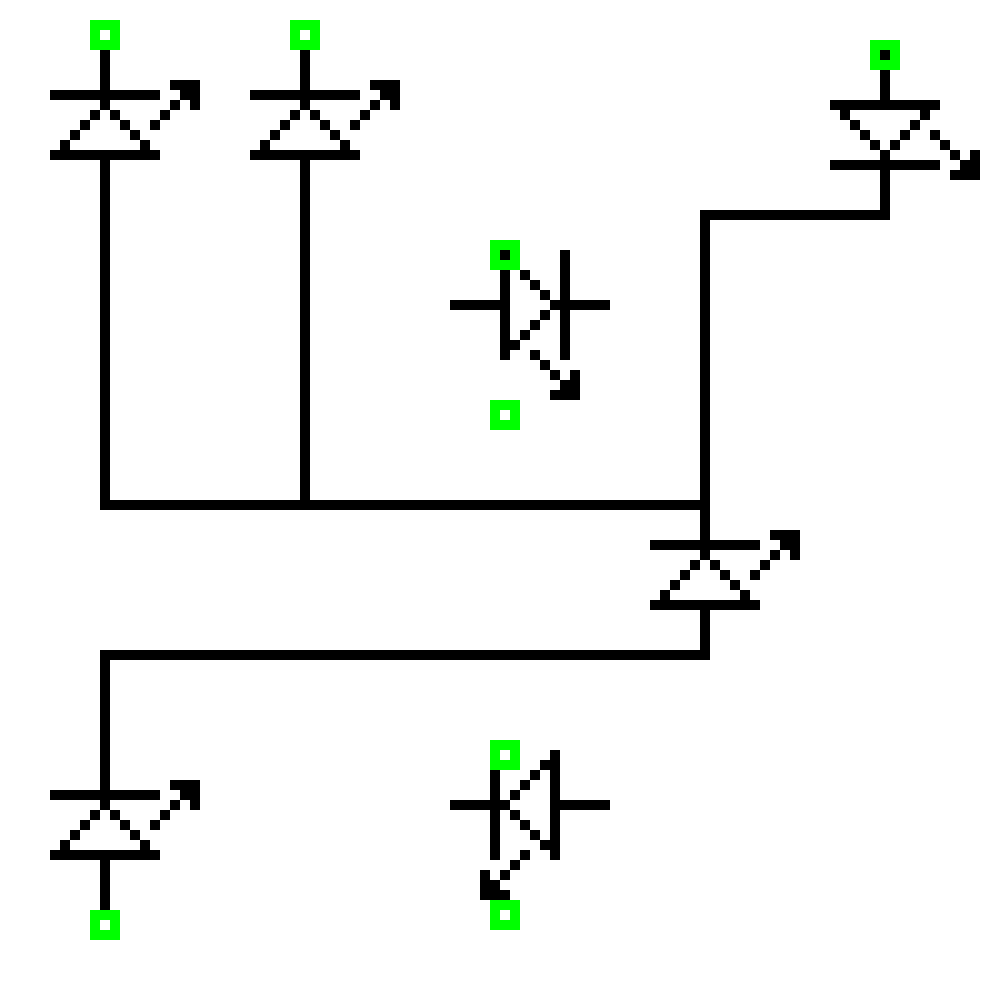
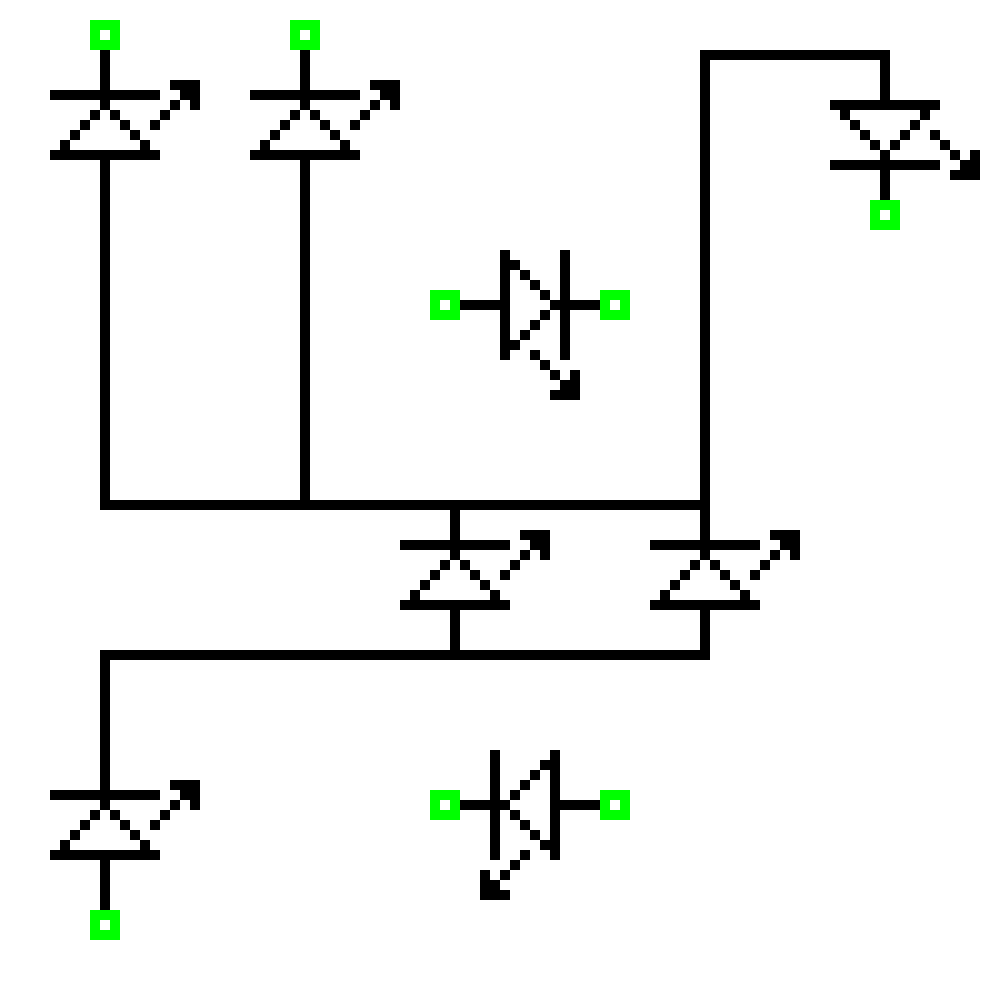
tests(led): add tests to led file

diff --git a/pkg/components/led.go b/pkg/components/led.go
@@ -8,8 +8,6 @@ import (
 )
 
 const (
-	pixelEmpt   = 0
-	pixelFill   = 1
 	ledFileName = "images/led.png"
 
 	// North Direction which the LED can point
@@ -21,25 +19,6 @@ const (
 	// West Direction which the LED can point
 	West = "W"
 )
-
-var ledPixels = [][]int{
-	{pixelEmpt, pixelEmpt, pixelEmpt, pixelEmpt, pixelEmpt, pixelFill, pixelEmpt, pixelEmpt, pixelEmpt, pixelEmpt, pixelEmpt, pixelEmpt, pixelEmpt, pixelEmpt, pixelEmpt},
-	{pixelEmpt, pixelEmpt, pixelEmpt, pixelEmpt, pixelEmpt, pixelFill, pixelEmpt, pixelEmpt, pixelEmpt, pixelEmpt, pixelEmpt, pixelEmpt, pixelEmpt, pixelEmpt, pixelEmpt},
-	{pixelEmpt, pixelEmpt, pixelEmpt, pixelEmpt, pixelEmpt, pixelFill, pixelEmpt, pixelEmpt, pixelEmpt, pixelEmpt, pixelEmpt, pixelEmpt, pixelEmpt, pixelEmpt, pixelEmpt},
-	{pixelEmpt, pixelEmpt, pixelEmpt, pixelEmpt, pixelEmpt, pixelFill, pixelEmpt, pixelEmpt, pixelEmpt, pixelEmpt, pixelEmpt, pixelEmpt, pixelFill, pixelFill, pixelFill},
-	{pixelFill, pixelFill, pixelFill, pixelFill, pixelFill, pixelFill, pixelFill, pixelFill, pixelFill, pixelFill, pixelFill, pixelEmpt, pixelEmpt, pixelFill, pixelFill},
-	{pixelEmpt, pixelEmpt, pixelEmpt, pixelEmpt, pixelEmpt, pixelFill, pixelEmpt, pixelEmpt, pixelEmpt, pixelEmpt, pixelEmpt, pixelEmpt, pixelFill, pixelEmpt, pixelFill},
-	{pixelEmpt, pixelEmpt, pixelEmpt, pixelEmpt, pixelFill, pixelEmpt, pixelFill, pixelEmpt, pixelEmpt, pixelEmpt, pixelEmpt, pixelFill, pixelEmpt, pixelEmpt, pixelEmpt},
-	{pixelEmpt, pixelEmpt, pixelEmpt, pixelFill, pixelEmpt, pixelEmpt, pixelEmpt, pixelFill, pixelEmpt, pixelEmpt, pixelFill, pixelEmpt, pixelEmpt, pixelEmpt, pixelEmpt},
-	{pixelEmpt, pixelEmpt, pixelFill, pixelEmpt, pixelEmpt, pixelEmpt, pixelEmpt, pixelEmpt, pixelFill, pixelEmpt, pixelEmpt, pixelEmpt, pixelEmpt, pixelEmpt, pixelEmpt},
-	{pixelEmpt, pixelFill, pixelEmpt, pixelEmpt, pixelEmpt, pixelEmpt, pixelEmpt, pixelEmpt, pixelEmpt, pixelFill, pixelEmpt, pixelEmpt, pixelEmpt, pixelEmpt, pixelEmpt},
-	{pixelFill, pixelFill, pixelFill, pixelFill, pixelFill, pixelFill, pixelFill, pixelFill, pixelFill, pixelFill, pixelFill, pixelEmpt, pixelEmpt, pixelEmpt, pixelEmpt},
-	{pixelEmpt, pixelEmpt, pixelEmpt, pixelEmpt, pixelEmpt, pixelFill, pixelEmpt, pixelEmpt, pixelEmpt, pixelEmpt, pixelEmpt, pixelEmpt, pixelEmpt, pixelEmpt, pixelEmpt},
-	{pixelEmpt, pixelEmpt, pixelEmpt, pixelEmpt, pixelEmpt, pixelFill, pixelEmpt, pixelEmpt, pixelEmpt, pixelEmpt, pixelEmpt, pixelEmpt, pixelEmpt, pixelEmpt, pixelEmpt},
-	{pixelEmpt, pixelEmpt, pixelEmpt, pixelEmpt, pixelEmpt, pixelFill, pixelEmpt, pixelEmpt, pixelEmpt, pixelEmpt, pixelEmpt, pixelEmpt, pixelEmpt, pixelEmpt, pixelEmpt},
-	{pixelEmpt, pixelEmpt, pixelEmpt, pixelEmpt, pixelEmpt, pixelFill, pixelEmpt, pixelEmpt, pixelEmpt, pixelEmpt, pixelEmpt, pixelEmpt, pixelEmpt, pixelEmpt, pixelEmpt},
-	{pixelEmpt, pixelEmpt, pixelEmpt, pixelEmpt, pixelEmpt, pixelFill, pixelEmpt, pixelEmpt, pixelEmpt, pixelEmpt, pixelEmpt, pixelEmpt, pixelEmpt, pixelEmpt, pixelEmpt},
-}
 
 var directions = map[string]bool{
 	North: true,
@@ -56,6 +35,18 @@ type LEDConfig struct {
 	Direction  string
 }
 
+func reverse1DSlice(arr []int) {
+	for i, j := 0, len(arr)-1; i < j; i, j = i+1, j-1 {
+		arr[i], arr[j] = arr[j], arr[i]
+	}
+}
+
+func reverse2DSlice(arr [][]int) {
+	for i, j := 0, len(arr)-1; i < j; i, j = i+1, j-1 {
+		arr[i], arr[j] = arr[j], arr[i]
+	}
+}
+
 func transformPixels(pixels [][]int, direction string) [][]int {
 	newPixels := make([][]int, len(pixels))
 	copy(newPixels, pixels)
@@ -63,9 +54,7 @@ func transformPixels(pixels [][]int, direction string) [][]int {
 		return pixels
 	}
 	if direction == South {
-		for i, j := 0, len(newPixels)-1; i < j; i, j = i+1, j-1 {
-			newPixels[i], newPixels[j] = newPixels[j], newPixels[i]
-		}
+		reverse2DSlice(newPixels)
 		return newPixels
 	}
 
@@ -80,14 +69,11 @@ func transformPixels(pixels [][]int, direction string) [][]int {
 	}
 	if direction == West {
 		return newPixels
-	} else {
-		for _, row := range newPixels {
-			for i, j := 0, len(row)-1; i < j; i, j = i+1, j-1 {
-				row[i], row[j] = row[j], row[i]
-			}
-		}
-		return newPixels
 	}
+	for _, row := range newPixels {
+		reverse1DSlice(row)
+	}
+	return newPixels
 }
 
 // NewLED returns a LED config starting from specified x,y
@@ -123,12 +109,30 @@ func (l *LEDConfig) GetCoordinates() ([][]int, error) {
 
 // GetCathode gets the LED's cathode coord
 func (l *LEDConfig) GetCathode() common.Coordinate {
-	return common.NewCord(l.startCoord.GetX()+5, l.startCoord.GetY())
+	if l.Direction == North {
+		return common.NewCord(l.startCoord.GetX()+5, l.startCoord.GetY())
+	}
+	if l.Direction == East {
+		return common.NewCord(l.startCoord.GetX()-1, l.startCoord.GetY()+5)
+	}
+	if l.Direction == South {
+		return common.NewCord(l.startCoord.GetX()+5, l.startCoord.GetY()+len(ledPixels))
+	}
+	return common.NewCord(l.startCoord.GetX()+len(ledPixels), l.startCoord.GetY()+5)
 }
 
 // GetAnode gets the LED's anode coord
 func (l *LEDConfig) GetAnode() common.Coordinate {
-	return common.NewCord(l.startCoord.GetX()+5, l.startCoord.GetY()+len(ledPixels))
+	if l.Direction == North {
+		return common.NewCord(l.startCoord.GetX()+5, l.startCoord.GetY()+len(ledPixels))
+	}
+	if l.Direction == East {
+		return common.NewCord(l.startCoord.GetX()+len(ledPixels), l.startCoord.GetY()+5)
+	}
+	if l.Direction == South {
+		return common.NewCord(l.startCoord.GetX()+5, l.startCoord.GetY())
+	}
+	return common.NewCord(l.startCoord.GetX()-1, l.startCoord.GetY()+5)
 }
 
 func validatePixelArray(pixelArray [][]int) error {

diff --git a/pkg/components/pixel_art.go b/pkg/components/pixel_art.go
@@ -1,0 +1,25 @@
+package components
+
+const (
+	pixelEmpt = 0
+	pixelFill = 1
+)
+
+var ledPixels = [][]int{
+	{pixelEmpt, pixelEmpt, pixelEmpt, pixelEmpt, pixelEmpt, pixelFill, pixelEmpt, pixelEmpt, pixelEmpt, pixelEmpt, pixelEmpt, pixelEmpt, pixelEmpt, pixelEmpt, pixelEmpt},
+	{pixelEmpt, pixelEmpt, pixelEmpt, pixelEmpt, pixelEmpt, pixelFill, pixelEmpt, pixelEmpt, pixelEmpt, pixelEmpt, pixelEmpt, pixelEmpt, pixelEmpt, pixelEmpt, pixelEmpt},
+	{pixelEmpt, pixelEmpt, pixelEmpt, pixelEmpt, pixelEmpt, pixelFill, pixelEmpt, pixelEmpt, pixelEmpt, pixelEmpt, pixelEmpt, pixelEmpt, pixelEmpt, pixelEmpt, pixelEmpt},
+	{pixelEmpt, pixelEmpt, pixelEmpt, pixelEmpt, pixelEmpt, pixelFill, pixelEmpt, pixelEmpt, pixelEmpt, pixelEmpt, pixelEmpt, pixelEmpt, pixelFill, pixelFill, pixelFill},
+	{pixelFill, pixelFill, pixelFill, pixelFill, pixelFill, pixelFill, pixelFill, pixelFill, pixelFill, pixelFill, pixelFill, pixelEmpt, pixelEmpt, pixelFill, pixelFill},
+	{pixelEmpt, pixelEmpt, pixelEmpt, pixelEmpt, pixelEmpt, pixelFill, pixelEmpt, pixelEmpt, pixelEmpt, pixelEmpt, pixelEmpt, pixelEmpt, pixelFill, pixelEmpt, pixelFill},
+	{pixelEmpt, pixelEmpt, pixelEmpt, pixelEmpt, pixelFill, pixelEmpt, pixelFill, pixelEmpt, pixelEmpt, pixelEmpt, pixelEmpt, pixelFill, pixelEmpt, pixelEmpt, pixelEmpt},
+	{pixelEmpt, pixelEmpt, pixelEmpt, pixelFill, pixelEmpt, pixelEmpt, pixelEmpt, pixelFill, pixelEmpt, pixelEmpt, pixelFill, pixelEmpt, pixelEmpt, pixelEmpt, pixelEmpt},
+	{pixelEmpt, pixelEmpt, pixelFill, pixelEmpt, pixelEmpt, pixelEmpt, pixelEmpt, pixelEmpt, pixelFill, pixelEmpt, pixelEmpt, pixelEmpt, pixelEmpt, pixelEmpt, pixelEmpt},
+	{pixelEmpt, pixelFill, pixelEmpt, pixelEmpt, pixelEmpt, pixelEmpt, pixelEmpt, pixelEmpt, pixelEmpt, pixelFill, pixelEmpt, pixelEmpt, pixelEmpt, pixelEmpt, pixelEmpt},
+	{pixelFill, pixelFill, pixelFill, pixelFill, pixelFill, pixelFill, pixelFill, pixelFill, pixelFill, pixelFill, pixelFill, pixelEmpt, pixelEmpt, pixelEmpt, pixelEmpt},
+	{pixelEmpt, pixelEmpt, pixelEmpt, pixelEmpt, pixelEmpt, pixelFill, pixelEmpt, pixelEmpt, pixelEmpt, pixelEmpt, pixelEmpt, pixelEmpt, pixelEmpt, pixelEmpt, pixelEmpt},
+	{pixelEmpt, pixelEmpt, pixelEmpt, pixelEmpt, pixelEmpt, pixelFill, pixelEmpt, pixelEmpt, pixelEmpt, pixelEmpt, pixelEmpt, pixelEmpt, pixelEmpt, pixelEmpt, pixelEmpt},
+	{pixelEmpt, pixelEmpt, pixelEmpt, pixelEmpt, pixelEmpt, pixelFill, pixelEmpt, pixelEmpt, pixelEmpt, pixelEmpt, pixelEmpt, pixelEmpt, pixelEmpt, pixelEmpt, pixelEmpt},
+	{pixelEmpt, pixelEmpt, pixelEmpt, pixelEmpt, pixelEmpt, pixelFill, pixelEmpt, pixelEmpt, pixelEmpt, pixelEmpt, pixelEmpt, pixelEmpt, pixelEmpt, pixelEmpt, pixelEmpt},
+	{pixelEmpt, pixelEmpt, pixelEmpt, pixelEmpt, pixelEmpt, pixelFill, pixelEmpt, pixelEmpt, pixelEmpt, pixelEmpt, pixelEmpt, pixelEmpt, pixelEmpt, pixelEmpt, pixelEmpt},
+}

diff --git a/pkg/components/led_test.go b/pkg/components/led_test.go
@@ -43,6 +43,72 @@ func (m *ledTest) Test_NewLED() {
 	l, err := NewLED(common.NewCord(0, 0), North)
 	m.Nil(err)
 	m.Equal(expectedL, l)
+
+	expectedL = LEDConfig{
+		startCoord: common.NewCord(0, 0),
+		LedPixels:  transformPixels(ledPixels, East),
+		Colour:     color.Black,
+		Direction:  East,
+	}
+	l, err = NewLED(common.NewCord(0, 0), East)
+	m.Nil(err)
+	m.Equal(expectedL, l)
+
+	expectedL = LEDConfig{
+		startCoord: common.NewCord(0, 0),
+		LedPixels:  transformPixels(ledPixels, South),
+		Colour:     color.Black,
+		Direction:  South,
+	}
+	l, err = NewLED(common.NewCord(0, 0), South)
+	m.Nil(err)
+	m.Equal(expectedL, l)
+
+	expectedL = LEDConfig{
+		startCoord: common.NewCord(0, 0),
+		LedPixels:  transformPixels(ledPixels, West),
+		Colour:     color.Black,
+		Direction:  West,
+	}
+	l, err = NewLED(common.NewCord(0, 0), West)
+	m.Nil(err)
+	m.Equal(expectedL, l)
+}
+
+func (m *ledTest) Test_Anode() {
+	l, err := NewLED(common.NewCord(0, 0), North)
+	m.Nil(err)
+	m.Equal(common.NewCord(5, 16), l.GetAnode())
+
+	l, err = NewLED(common.NewCord(0, 0), East)
+	m.Nil(err)
+	m.Equal(common.NewCord(16, 5), l.GetAnode())
+
+	l, err = NewLED(common.NewCord(0, 0), South)
+	m.Nil(err)
+	m.Equal(common.NewCord(5, 0), l.GetAnode())
+	
+	l, err = NewLED(common.NewCord(0, 0), West)
+	m.Nil(err)
+	m.Equal(common.NewCord(-1, 5), l.GetAnode())
+}
+
+func (m *ledTest) Test_Cathode() {
+	l, err := NewLED(common.NewCord(0, 0), North)
+	m.Nil(err)
+	m.Equal(common.NewCord(5, 0), l.GetCathode())
+	
+	l, err = NewLED(common.NewCord(0, 0), East)
+	m.Nil(err)
+	m.Equal(common.NewCord(-1, 5), l.GetCathode())
+	
+	l, err = NewLED(common.NewCord(0, 0), South)
+	m.Nil(err)
+	m.Equal(common.NewCord(5, 16), l.GetCathode())
+	
+	l, err = NewLED(common.NewCord(0, 0), West)
+	m.Nil(err)
+	m.Equal(common.NewCord(16, 5), l.GetCathode())
 }
 
 func (m *ledTest) TestDrawLED_Encode_Error() {
@@ -80,4 +146,24 @@ func (m *ledTest) Test_GetColour() {
 	l, err := NewLED(common.NewCord(0, 0), North)
 	m.Nil(err)
 	m.Equal(color.Black, l.GetColour())
+}
+
+func (m *ledTest) Test_reverse1DSlice() {
+	arr := []int{1, 2, 3}
+	reverse1DSlice(arr)
+	m.Equal([]int{3, 2, 1}, arr)
+}
+
+func (m *ledTest) Test_reverse2DSlice() {
+	arr := [][]int{
+		{1, 1, 1},
+		{2, 2, 2},
+		{3, 3, 3},
+	}
+	reverse2DSlice(arr)
+	m.Equal([][]int{
+		{3, 3, 3},
+		{2, 2, 2},
+		{1, 1, 1},
+	}, arr)
 }

diff --git a/main.go b/main.go
@@ -57,6 +57,12 @@ func main() {
 	}
 	board.AddElement(&led7)
 
+	led8, err := components.NewLED(common.NewCord(40, 50), components.North)
+	if err != nil {
+		log.Fatal(err)
+	}
+	board.AddElement(&led8)
+
 	// Add some wires
 	wire := components.NewWire(common.NewCord(30, 20), common.NewCord(30, 50))
 	board.AddElement(&wire)
